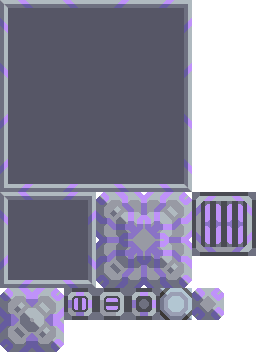
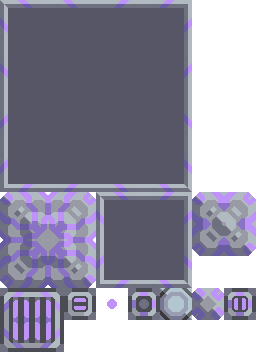
Make the blocks in the scene answer to a click
The message block is editable in the game and now here: a pencil in the config
row, a 380 by 160 field and a counter, with the game's stricter rules — manual
text is trimmed and keeps at most 24 newlines, unlike printflush, which copies
the buffer as is. The switch toggles on click and finally shows its lit sprite.
Memory cells get a viewer, which the game has no equivalent for: you cannot look
inside a cell there at all, and that is the first thing missing when learning
read and write.

Changed region(s): [[0.0, 0.5312, 1.0, 1.0], [0.875, 0.8125, 1.0, 0.9062]]

diff --git a/web/src/sandbox/Sandbox.jsx b/web/src/sandbox/Sandbox.jsx
@@ -23,6 +23,7 @@ import sprites from '@mlog/core/data/sprites.json'
 import blockSprites from '@mlog/core/data/block-sprites.json'
 
 import {createScene, attachProcessor} from './scene.js'
+import {MessageDialog, MemoryDialog} from './BlockDialogs.jsx'
 import {PAINTER, COUNTER} from './programs.js'
 import {Variables} from './Variables.jsx'
 
@@ -31,6 +32,12 @@ const TILE = 40
 
 /** Двойная стрелка перематывает на секунду — 60 тиков. */
 const SECOND = 60
+
+/**
+ * Блоки, у которых есть что настроить. Сообщение правится и в игре, память — наша добавка:
+ * посмотреть содержимое ячейки в Mindustry нельзя вовсе.
+ */
+const CONFIGURABLE = new Set(['message', 'memory-cell', 'memory-bank'])
 
 /** BlockConfigFragment.hideConfig: ряд настройки сжимается за 0.06 секунды. */
 const HIDE_MS = 60
@@ -85,6 +92,7 @@ export function Sandbox() {
     // и только потом убирает. Рамка вокруг блока при этом гаснет сразу
     const [closing, setClosing] = useState(null)
     const [editing, setEditing] = useState(null)
+    const [blockDialog, setBlockDialog] = useState(null)
     const [globalsOpen, setGlobalsOpen] = useState(false)
 
     /** Процессор, чьи переменные показывает таблица. */
@@ -296,9 +304,22 @@ export function Sandbox() {
             return
         }
 
-        hideConfig()
+        // SwitchBlock.configTapped: щелчок по тумблеру сразу его переключает
+        if (building === scene.toggle) {
+            building.enabled = !building.enabled
+            hideConfig()
+            worldView.draw({configured: null})
+            return
+        }
 
-        if (building === scene.toggle) building.enabled = !building.enabled
+        // У сообщения и памяти есть что настраивать — показываем ряд, как в игре
+        if (CONFIGURABLE.has(building.type)) {
+            setConfigured(building)
+            worldView.draw({configured: building})
+            return
+        }
+
+        hideConfig()
         worldView.draw({configured: null})
     }
 
@@ -391,15 +412,37 @@ export function Sandbox() {
 
                     {configured !== null && (
                         <div class="config-bar" style={configuredSpot()}>
-                            <button
-                                class="config-bar__button"
-                                title="Править программу"
-                                onClick={() => setEditing(scene.processors.findIndex(
-                                    entry => entry.building === configured
-                                ))}
-                            >
-                                <Icon name="pencil_" size={24} />
-                            </button>
+                            {configured.type === 'message' && (
+                                <button
+                                    class="config-bar__button"
+                                    title="Править сообщение"
+                                    onClick={() => setBlockDialog('message')}
+                                >
+                                    <Icon name="pencil_" size={24} />
+                                </button>
+                            )}
+
+                            {configured.memory !== undefined && (
+                                <button
+                                    class="config-bar__button"
+                                    title="Посмотреть память"
+                                    onClick={() => setBlockDialog('memory')}
+                                >
+                                    <Icon name="list" size={24} />
+                                </button>
+                            )}
+
+                            {configured.processor !== undefined && (
+                                <button
+                                    class="config-bar__button"
+                                    title="Править программу"
+                                    onClick={() => setEditing(scene.processors.findIndex(
+                                        entry => entry.building === configured
+                                    ))}
+                                >
+                                    <Icon name="pencil_" size={24} />
+                                </button>
+                            )}
                         </div>
                     )}
                 </div>
@@ -447,6 +490,18 @@ export function Sandbox() {
             </div>
 
             {globalsOpen && <GlobalsDialog onClose={() => setGlobalsOpen(false)} />}
+
+            {blockDialog === 'message' && configured !== null && (
+                <MessageDialog
+                    building={configured}
+                    onApply={(text) => { configured.configureMessage(text); redraw() }}
+                    onClose={() => setBlockDialog(null)}
+                />
+            )}
+
+            {blockDialog === 'memory' && configured !== null && (
+                <MemoryDialog building={configured} onClose={() => setBlockDialog(null)} />
+            )}
 
             {editingEntry !== null && (
                 <LogicDialog

diff --git a/web/src/sandbox/BlockDialogs.jsx b/web/src/sandbox/BlockDialogs.jsx
@@ -1,0 +1,94 @@
+import {useState} from 'preact/hooks'
+
+import {Overlay} from '@mlog/editor/src/Overlay.jsx'
+import {Icon} from '@mlog/editor/src/Icon.jsx'
+import {MAX_MESSAGE_LENGTH} from '@mlog/core/src/world.js'
+
+/**
+ * Окна настройки блоков, которые открываются щелчком по блоку в мире.
+ *
+ * Сообщение правится и в игре: `MessageBlock.buildConfiguration` вешает карандаш, а тот
+ * открывает окно с полем 380 на 160, счётчиком «сколько из 400» серым цветом и кнопкой «ОК».
+ * Правка идёт не как `printflush`: пробелы по краям срезаются, а переносов остаётся не больше
+ * двадцати четырёх — это делает `configureMessage` в ядре.
+ *
+ * Просмотр памяти — наша добавка: в игре содержимое ячейки посмотреть нельзя вовсе, и это
+ * первое, чего не хватает, когда учишься работать с `read` и `write`.
+ */
+
+export function MessageDialog({building, onApply, onClose}) {
+    const [text, setText] = useState(building.message)
+
+    return (
+        <Overlay onClose={onClose}>
+            <div class="dialog dialog--narrow" onClick={(event) => event.stopPropagation()}>
+                <div class="dialog__title">Правка сообщения</div>
+
+                <div class="dialog__body">
+                    <textarea
+                        class="message-edit"
+                        value={text}
+                        maxLength={MAX_MESSAGE_LENGTH}
+                        autoFocus
+                        onInput={(event) => setText(event.currentTarget.value)}
+                    />
+                    <div class="message-edit__counter">
+                        {text.length} / {MAX_MESSAGE_LENGTH}
+                    </div>
+                </div>
+
+                <div class="dialog__buttons">
+                    <button class="game-button dialog__back" onClick={onClose}>
+                        <Icon name="left" size={22} />
+                        <span>Назад</span>
+                    </button>
+                    <button
+                        class="game-button dialog__back"
+                        onClick={() => { onApply(text); onClose() }}
+                    >
+                        <span>ОК</span>
+                    </button>
+                </div>
+            </div>
+        </Overlay>
+    )
+}
+
+/**
+ * Содержимое ячейки или банка памяти. Числа печатаются так же, как в таблице переменных:
+ * целые без хвоста. Незанятые ячейки показаны нулями — они и есть нули, память чистая.
+ */
+export function MemoryDialog({building, onClose}) {
+    const cells = [...building.memory]
+
+    return (
+        <Overlay onClose={onClose}>
+            <div class="dialog" onClick={(event) => event.stopPropagation()}>
+                <div class="dialog__title">{building.name}</div>
+
+                <div class="dialog__body">
+                    <div class="memory">
+                        {cells.map((value, address) => (
+                            <div class={`memory__cell${value === 0 ? ' memory__cell--empty' : ''}`} key={address}>
+                                <span class="memory__address">{address}</span>
+                                <span class="memory__value">{format(value)}</span>
+                            </div>
+                        ))}
+                    </div>
+                </div>
+
+                <div class="dialog__buttons">
+                    <button class="game-button dialog__back" onClick={onClose}>
+                        <Icon name="left" size={22} />
+                        <span>Назад</span>
+                    </button>
+                </div>
+            </div>
+        </Overlay>
+    )
+}
+
+/** Как в таблице переменных: целое печатается целым. LogicDialog */
+function format(value) {
+    return Math.abs(value - Math.round(value)) < 0.00001 ? String(Math.round(value)) : String(value)
+}

diff --git a/core/src/world.js b/core/src/world.js
@@ -27,6 +27,9 @@ export const BLOCK_SPECS = specs.blocks
 /** MessageBlock.maxTextLength */
 export const MAX_MESSAGE_LENGTH = 400
 
+/** MessageBlock.maxNewlines: столько переносов строки переживёт правка руками. */
+export const MAX_MESSAGE_NEWLINES = 24
+
 /** LExecutor.maxDisplayBuffer */
 export const MAX_DISPLAY_BUFFER = 1024
 
@@ -171,8 +174,32 @@ export class MessageBuilding extends Building {
         this.message = ''
     }
 
+    /** printflush просто копирует буфер: ни обрезки по краям, ни счёта переносов. */
     setMessage(text) {
         this.message = text.slice(0, MAX_MESSAGE_LENGTH)
+    }
+
+    /**
+     * Правка руками идёт другим путём — через конфигурацию блока, а она строже:
+     * пробелы по краям срезаются, а переносов остаётся не больше 24. MessageBlock.config
+     */
+    configureMessage(text) {
+        if (text.length > MAX_MESSAGE_LENGTH) return
+
+        let newlines = 0
+        let result = ''
+
+        for (const character of text.trim()) {
+            if (character !== '\n') {
+                result += character
+                continue
+            }
+
+            // Счётчик увеличивается ДО проверки, поэтому переносов проходит ровно 24
+            if (newlines++ <= MAX_MESSAGE_NEWLINES) result += '\n'
+        }
+
+        this.message = result
     }
 }
 

diff --git a/web/src/sandbox/sandbox.css b/web/src/sandbox/sandbox.css
@@ -296,3 +296,58 @@
             1px 1px 0 #3f3f3f, -1px 1px 0 #3f3f3f, 1px -1px 0 #3f3f3f, -1px -1px 0 #3f3f3f;
     }
 }
+
+/*
+ * Правка сообщения. В игре это поле 380 на 160 и счётчик под ним серым цветом.
+ * MessageBlock.buildConfiguration
+ */
+.message-edit {
+    width: 380px;
+    height: 160px;
+    background: var(--pane-fill, rgb(0 0 0 / 0.6));
+    border: var(--pane-border, 4px) solid var(--pane-frame, #454545);
+    color: #e6e6e6;
+    font: inherit;
+    font-size: 15px;
+    padding: 6px;
+    resize: none;
+}
+
+.message-edit__counter {
+    color: #a8a8a8;
+    font-size: 13px;
+    padding-top: 6px;
+}
+
+/*
+ * Содержимое памяти. В игре его не видно вовсе — это наша добавка, поэтому вид простой:
+ * адрес слева серым, значение справа.
+ */
+.memory {
+    display: grid;
+    grid-template-columns: repeat(auto-fill, minmax(140px, 1fr));
+    gap: 2px;
+    max-height: 60vh;
+    overflow: auto;
+}
+
+.memory__cell {
+    display: flex;
+    justify-content: space-between;
+    gap: 8px;
+    padding: 4px 8px;
+    background: rgb(0 0 0 / 0.6);
+    font-size: 14px;
+}
+
+.memory__cell--empty {
+    color: #6a6a72;
+}
+
+.memory__address {
+    color: #8a8a96;
+}
+
+.memory__value {
+    font-family: 'Mindustry Mono', ui-monospace, monospace;
+}

diff --git a/render/src/world.js b/render/src/world.js
@@ -172,6 +172,12 @@ export class WorldView {
             context.drawImage(icon, cx - side / 2, cy - side / 2, side, side)
         }
 
+        // Включённый тумблер рисуется поверх своим спрайтом. SwitchBlock.draw
+        if (building.type === 'switch' && building.enabled) {
+            const on = this.sprite('switch-on')
+            if (on !== null) context.drawImage(on, cx - side / 2, cy - side / 2, side, side)
+        }
+
         // Дисплей показывает картинку поверх собственного спрайта. Она меньше блока:
         // буфер рисуется размером displaySize * scaleFactor * Draw.scl, а Draw.scl это 1/4,
         // потому что спрайты игры вчетверо крупнее мировых единиц. У дисплея 3 на 3 это

diff --git a/docs/parity.md b/docs/parity.md
@@ -96,6 +96,17 @@
 | Исчезновение: `scaleTo(0,1)` за 0.06 | есть |
 | Ряд прячется, когда блок пропал или стал недоступен | не нужно: блоки не разрушаются |
 
+## world/blocks/logic: сообщение, тумблер, память
+
+| Что | Состояние |
+| --- | --- |
+| Сообщение правится руками: карандаш в ряду настройки, поле 380 на 160, счётчик «сколько из 400» | есть |
+| Правка строже, чем `printflush`: пробелы по краям срезаются, переносов остаётся не больше 24 | есть |
+| Щелчок по тумблеру сразу его переключает (`configTapped`) | есть |
+| Включённый тумблер рисуется спрайтом `switch-on` поверх основного | есть |
+| Дверь открывается щелчком | нет: у неё в игре нет настройки, она открывается юнитами |
+| Просмотр содержимого памяти | добавка: в игре посмотреть ячейку нельзя вовсе |
+
 ## graphics/Drawf.java
 
 | Что | Состояние |
